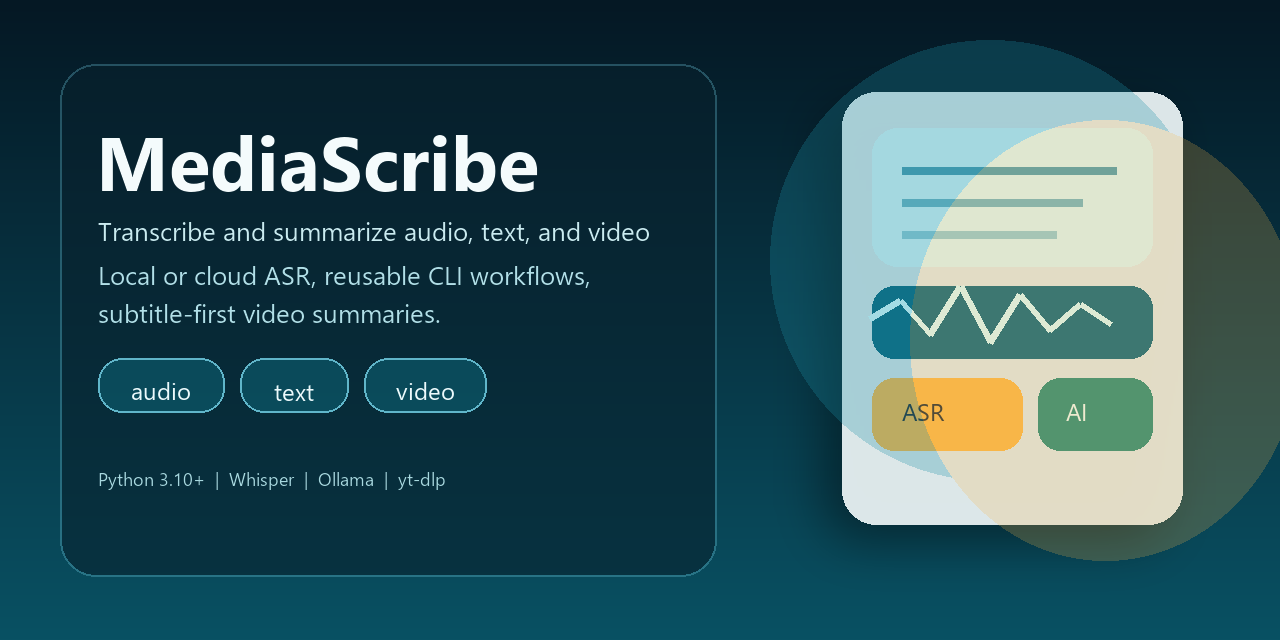
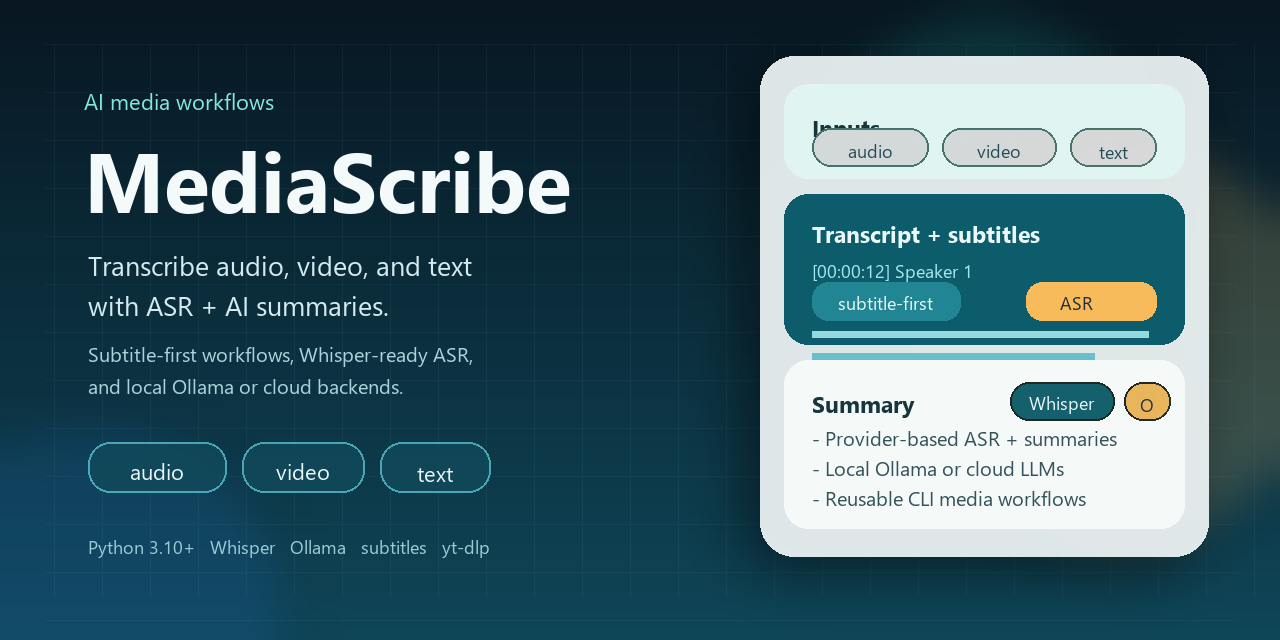
Refresh social preview image

diff --git a/scripts/generate_social_preview.py b/scripts/generate_social_preview.py
@@ -33,83 +33,201 @@ def vertical_gradient(size: tuple[int, int], top: tuple[int, int, int], bottom: 
     return gradient
 
 
-def draw_chip(draw: ImageDraw.ImageDraw, xy: tuple[int, int, int, int], label: str, font: ImageFont.ImageFont) -> None:
-    draw.rounded_rectangle(xy, radius=24, fill=(11, 78, 94, 210), outline=(133, 233, 255, 180), width=2)
+def draw_pill(
+    draw: ImageDraw.ImageDraw,
+    xy: tuple[int, int, int, int],
+    label: str,
+    font: ImageFont.ImageFont,
+    *,
+    fill: tuple[int, int, int, int],
+    outline: tuple[int, int, int, int],
+    text_fill: tuple[int, int, int],
+) -> None:
+    draw.rounded_rectangle(xy, radius=22, fill=fill, outline=outline, width=2)
     left, top, right, bottom = xy
     text_box = draw.textbbox((0, 0), label, font=font)
     text_width = text_box[2] - text_box[0]
     text_height = text_box[3] - text_box[1]
     x = left + (right - left - text_width) / 2
     y = top + (bottom - top - text_height) / 2 - 2
-    draw.text((x, y), label, font=font, fill=(236, 250, 252))
+    draw.text((x, y), label, font=font, fill=text_fill)
+
+
+def add_soft_blobs(base: Image.Image) -> None:
+    blobs = Image.new("RGBA", SIZE, (0, 0, 0, 0))
+    draw = ImageDraw.Draw(blobs)
+    draw.ellipse((760, 10, 1210, 460), fill=(32, 174, 163, 58))
+    draw.ellipse((920, 120, 1320, 560), fill=(250, 188, 92, 48))
+    draw.ellipse((-120, 410, 300, 820), fill=(33, 106, 199, 38))
+    base.alpha_composite(blobs.filter(ImageFilter.GaussianBlur(26)))
+
+
+def add_grid(base: Image.Image) -> None:
+    grid = Image.new("RGBA", SIZE, (0, 0, 0, 0))
+    draw = ImageDraw.Draw(grid)
+    for x in range(54, SIZE[0], 48):
+        draw.line((x, 44, x, SIZE[1] - 44), fill=(130, 181, 197, 18), width=1)
+    for y in range(44, SIZE[1], 48):
+        draw.line((44, y, SIZE[0] - 44, y), fill=(130, 181, 197, 14), width=1)
+    base.alpha_composite(grid)
 
 
 def main() -> None:
     OUTPUT.parent.mkdir(parents=True, exist_ok=True)
 
-    base = vertical_gradient(SIZE, (5, 24, 36), (9, 81, 99)).convert("RGBA")
+    base = vertical_gradient(SIZE, (8, 23, 34), (15, 70, 88)).convert("RGBA")
+    add_soft_blobs(base)
+    add_grid(base)
+
     overlay = Image.new("RGBA", SIZE, (0, 0, 0, 0))
     draw = ImageDraw.Draw(overlay)
 
-    title_font = load_font("segoeuib.ttf", 76)
-    subtitle_font = load_font("segoeui.ttf", 26)
-    chip_font = load_font("segoeui.ttf", 24)
+    eyebrow_font = load_font("segoeui.ttf", 22)
+    title_font = load_font("segoeuib.ttf", 84)
+    subtitle_font = load_font("segoeui.ttf", 27)
+    pill_font = load_font("segoeui.ttf", 22)
+    section_font = load_font("segoeuib.ttf", 23)
+    body_font = load_font("segoeui.ttf", 20)
     tiny_font = load_font("segoeui.ttf", 18)
 
-    draw.ellipse((770, 40, 1210, 480), fill=(28, 143, 166, 70))
-    draw.ellipse((910, 120, 1300, 560), fill=(248, 182, 72, 55))
-    draw.rounded_rectangle((60, 64, 716, 576), radius=36, fill=(7, 32, 44, 150), outline=(123, 220, 242, 70), width=2)
-
-    draw.text((96, 108), "MediaScribe", font=title_font, fill=(244, 251, 252))
+    # Left copy block.
+    draw.text((84, 86), "AI media workflows", font=eyebrow_font, fill=(129, 232, 223))
+    draw.text((84, 122), "MediaScribe", font=title_font, fill=(244, 249, 250))
     draw.text(
-        (98, 212),
-        "Transcribe and summarize audio, text, and video",
+        (88, 246),
+        "Transcribe audio, video, and text",
         font=subtitle_font,
-        fill=(202, 235, 240),
+        fill=(212, 234, 239),
     )
     draw.text(
-        (98, 256),
-        "Local or cloud ASR, reusable CLI workflows,",
+        (88, 286),
+        "with ASR + AI summaries.",
         font=subtitle_font,
-        fill=(177, 223, 231),
+        fill=(212, 234, 239),
     )
     draw.text(
-        (98, 294),
-        "subtitle-first video summaries.",
-        font=subtitle_font,
-        fill=(177, 223, 231),
+        (88, 340),
+        "Subtitle-first workflows, Whisper-ready ASR,",
+        font=body_font,
+        fill=(171, 211, 219),
+    )
+    draw.text(
+        (88, 372),
+        "and local Ollama or cloud backends.",
+        font=body_font,
+        fill=(171, 211, 219),
     )
 
-    draw_chip(draw, (98, 358, 224, 412), "audio", chip_font)
-    draw_chip(draw, (240, 358, 348, 412), "text", chip_font)
-    draw_chip(draw, (364, 358, 486, 412), "video", chip_font)
+    draw_pill(
+        draw,
+        (88, 442, 226, 492),
+        "audio",
+        pill_font,
+        fill=(16, 73, 90, 215),
+        outline=(99, 210, 224, 180),
+        text_fill=(234, 248, 251),
+    )
+    draw_pill(
+        draw,
+        (242, 442, 364, 492),
+        "video",
+        pill_font,
+        fill=(16, 73, 90, 215),
+        outline=(99, 210, 224, 180),
+        text_fill=(234, 248, 251),
+    )
+    draw_pill(
+        draw,
+        (380, 442, 490, 492),
+        "text",
+        pill_font,
+        fill=(16, 73, 90, 215),
+        outline=(99, 210, 224, 180),
+        text_fill=(234, 248, 251),
+    )
 
-    draw.text((98, 466), "Python 3.10+  |  Whisper  |  Ollama  |  yt-dlp", font=tiny_font, fill=(167, 216, 223))
+    draw.text(
+        (88, 534),
+        "Python 3.10+   Whisper   Ollama   subtitles   yt-dlp",
+        font=tiny_font,
+        fill=(155, 203, 211),
+    )
 
+    # Right social-card panel.
     card_shadow = Image.new("RGBA", SIZE, (0, 0, 0, 0))
     shadow_draw = ImageDraw.Draw(card_shadow)
-    shadow_draw.rounded_rectangle((824, 108, 1164, 540), radius=34, fill=(0, 0, 0, 110))
-    card_shadow = card_shadow.filter(ImageFilter.GaussianBlur(24))
-    base.alpha_composite(card_shadow)
+    shadow_draw.rounded_rectangle((744, 70, 1192, 570), radius=34, fill=(0, 0, 0, 122))
+    base.alpha_composite(card_shadow.filter(ImageFilter.GaussianBlur(28)))
 
-    card = Image.new("RGBA", SIZE, (0, 0, 0, 0))
-    card_draw = ImageDraw.Draw(card)
-    card_draw.rounded_rectangle((842, 92, 1182, 524), radius=34, fill=(238, 247, 248, 235))
-    card_draw.rounded_rectangle((872, 128, 1152, 266), radius=26, fill=(216, 244, 246))
-    card_draw.rounded_rectangle((872, 286, 1152, 358), radius=22, fill=(10, 102, 124))
-    card_draw.rounded_rectangle((872, 378, 1022, 450), radius=22, fill=(248, 182, 72))
-    card_draw.rounded_rectangle((1038, 378, 1152, 450), radius=22, fill=(38, 139, 121))
-    card_draw.line((902, 170, 1116, 170), fill=(75, 156, 175), width=8)
-    card_draw.line((902, 202, 1082, 202), fill=(109, 179, 194), width=8)
-    card_draw.line((902, 234, 1056, 234), fill=(144, 201, 211), width=8)
+    panel = Image.new("RGBA", SIZE, (0, 0, 0, 0))
+    panel_draw = ImageDraw.Draw(panel)
+    panel_draw.rounded_rectangle((760, 56, 1208, 556), radius=34, fill=(239, 246, 247, 236))
+    panel_draw.rounded_rectangle((784, 84, 1184, 178), radius=24, fill=(224, 245, 241))
+    panel_draw.rounded_rectangle((784, 194, 1184, 344), radius=24, fill=(13, 92, 108))
+    panel_draw.rounded_rectangle((784, 360, 1184, 528), radius=24, fill=(245, 250, 249))
 
-    waveform = [(870, 318), (900, 300), (930, 334), (960, 286), (990, 342), (1020, 294), (1050, 330), (1080, 304), (1110, 324)]
-    for start, end in zip(waveform, waveform[1:]):
-        card_draw.line((*start, *end), fill=(214, 248, 251), width=6)
+    panel_draw.text((812, 112), "Inputs", font=section_font, fill=(22, 53, 61))
+    draw_pill(
+        panel_draw,
+        (812, 128, 928, 166),
+        "audio",
+        tiny_font,
+        fill=(255, 255, 255, 210),
+        outline=(134, 208, 194, 120),
+        text_fill=(33, 74, 85),
+    )
+    draw_pill(
+        panel_draw,
+        (942, 128, 1056, 166),
+        "video",
+        tiny_font,
+        fill=(255, 255, 255, 210),
+        outline=(134, 208, 194, 120),
+        text_fill=(33, 74, 85),
+    )
+    draw_pill(
+        panel_draw,
+        (1070, 128, 1156, 166),
+        "text",
+        tiny_font,
+        fill=(255, 255, 255, 210),
+        outline=(134, 208, 194, 120),
+        text_fill=(33, 74, 85),
+    )
 
-    card_draw.text((902, 395), "ASR", font=chip_font, fill=(36, 46, 52))
-    card_draw.text((1066, 395), "AI", font=chip_font, fill=(236, 248, 244))
-    base.alpha_composite(card)
+    panel_draw.text((812, 218), "Transcript + subtitles", font=section_font, fill=(235, 248, 249))
+    panel_draw.text((812, 258), "[00:00:12] Speaker 1", font=tiny_font, fill=(167, 230, 237))
+    panel_draw.rounded_rectangle((812, 282, 960, 320), radius=16, fill=(33, 133, 148))
+    panel_draw.text((838, 290), "subtitle-first", font=tiny_font, fill=(233, 248, 250))
+    panel_draw.rounded_rectangle((1026, 282, 1156, 320), radius=16, fill=(247, 187, 92))
+    panel_draw.text((1060, 290), "ASR", font=tiny_font, fill=(34, 46, 53))
+    panel_draw.line((812, 334, 1148, 334), fill=(149, 216, 223), width=7)
+    panel_draw.line((812, 356, 1094, 356), fill=(102, 191, 203), width=7)
+
+    panel_draw.text((812, 388), "Summary", font=section_font, fill=(22, 53, 61))
+    panel_draw.text((812, 424), "- Provider-based ASR + summaries", font=body_font, fill=(53, 83, 90))
+    panel_draw.text((812, 454), "- Local Ollama or cloud LLMs", font=body_font, fill=(53, 83, 90))
+    panel_draw.text((812, 484), "- Reusable CLI media workflows", font=body_font, fill=(53, 83, 90))
+    draw_pill(
+        panel_draw,
+        (1010, 382, 1114, 420),
+        "Whisper",
+        tiny_font,
+        fill=(18, 105, 119, 220),
+        outline=(18, 105, 119, 0),
+        text_fill=(237, 248, 250),
+    )
+    draw_pill(
+        panel_draw,
+        (1124, 382, 1170, 420),
+        "O",
+        tiny_font,
+        fill=(245, 190, 96, 240),
+        outline=(245, 190, 96, 0),
+        text_fill=(38, 50, 55),
+    )
+
+    base.alpha_composite(panel)
 
     final = Image.alpha_composite(base, overlay).convert("RGB")
     final.save(OUTPUT, optimize=True)
